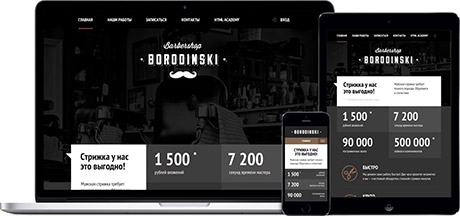
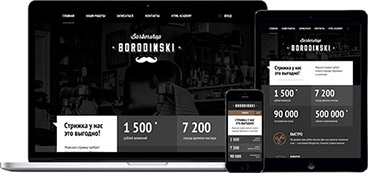
Изменяет размер карточек проектов, резиновое фото шапки

diff --git a/src/index.html b/src/index.html
@@ -30,7 +30,7 @@
           </ul>
         </div>
         <div class="header__photo-container">
-          <img src="./img/kboard_1100.jpg" class="header__photo" width="1100" height="619" alt="Фоновая фотография шапки">
+          <img src="./img/kboard_1100_extended.jpg" class="header__photo" width="1100" height="661" alt="Фоновая фотография шапки">
         </div>
       </header>
 
@@ -152,7 +152,7 @@
               <a href="https://github.com/Ge11ert/262023-mishka" class="project__link project__link--source">Исходник</a>
             </div>
             <div class="project__image-container">
-              <img src="./img/mishka_desktop@1X.jpg" class="project__image" width="460" height="216" alt="Превью проекта Мишка">
+              <img src="./img/mishka_desktop@1X.jpg" class="project__image" width="368" height="173" alt="Превью проекта Мишка">
               <ul class="project__features-list">
                 <li class="project__feature">HTML5/CSS3</li>
                 <li class="project__feature">JavaScript</li>
@@ -170,7 +170,7 @@
               <a href="https://github.com/Ge11ert/262023-barbershop" class="project__link project__link--source">Исходник</a>
             </div>
             <div class="project__image-container">
-              <img src="./img/barbershop_desktop@1X.jpg" class="project__image" width="460" height="216" alt="Превью проекта Мишка">
+              <img src="./img/barbershop_desktop@1X.jpg" class="project__image" width="368" height="173" alt="Превью проекта Мишка">
               <ul class="project__features-list">
                 <li class="project__feature">HTML5/CSS3</li>
                 <li class="project__feature">JavaScript</li>
@@ -187,7 +187,7 @@
               <a href="#" class="project__link project__link--source">Исходник</a>
             </div>
             <div class="project__image-container">
-              <img src="./img/keksobooking_desktop@1x.jpg" class="project__image" width="460" height="295" alt="Превью проекта Мишка">
+              <img src="./img/keksobooking_desktop@1x.jpg" class="project__image" width="368" height="236" alt="Превью проекта Мишка">
               <ul class="project__features-list">
                 <li class="project__feature">ES5</li>
                 <li class="project__feature">Валидация формы</li>
@@ -205,7 +205,7 @@
               <a href="#" class="project__link project__link--source">Исходник</a>
             </div>
             <div class="project__image-container">
-              <img src="./img/sedona_desktop@1X.jpg" class="project__image" width="460" height="295" alt="Превью проекта Мишка">
+              <img src="./img/sedona_desktop@1X.jpg" class="project__image" width="368" height="236" alt="Превью проекта Мишка">
               <ul class="project__features-list project__features-list--reduced">
                 <li class="project__feature">HTML5</li>
                 <li class="project__feature">CSS3</li>

diff --git a/src/sass/blocks/project.scss b/src/sass/blocks/project.scss
@@ -1,8 +1,7 @@
 .project {
   position: relative;
-  width: 500px;
+  width: 400px;
   padding: 22px 18px 12px;
-  box-sizing: border-box;
   border: 2px solid $mid-grey;
 
   .project__info {
@@ -66,15 +65,14 @@
 
   .project__image {
     display: block;
-    margin-bottom: 22px;
+    margin: 0 auto 22px;
   }
 
   .project__features-list {
     @include list-reset;
-    margin: 0 40px;
     display: flex;
     flex-wrap: wrap;
-    justify-content: space-between;
+    padding-left: 10px;
 
     &--reduced {
       justify-content: flex-start;
@@ -87,6 +85,7 @@
 
   .project__feature {
     margin-bottom: 10px;
+    margin-right: 10px;
     padding: 4px 10px;
     font-size: 18px;
     color: $white;

diff --git a/src/sass/blocks/header.scss b/src/sass/blocks/header.scss
@@ -17,6 +17,14 @@
     background-color: rgba($dark-blue, 0.85);
   }
 
+  .header__photo-container {
+    display: flex;
+    align-items: center;
+    width: 100%;
+    max-height: 550px;
+    overflow: hidden;
+  }
+
   .header__logo-link {
     width: 45px;
     height: 41px;
@@ -26,6 +34,7 @@
   }
 
   .header__photo {
-    display: block;
+    width: 100%;
+    height: auto;
   }
 }

diff --git a/src/sass/blocks/works.scss b/src/sass/blocks/works.scss
@@ -2,7 +2,7 @@
   @include desktop-padding;
   display: flex;
   flex-wrap: wrap;
-  justify-content: space-between;
+  justify-content: center;
   padding-top: 40px;
 
   .works__title {
@@ -20,5 +20,9 @@
 
   .works__item {
     margin-bottom: 40px;
+
+    &:nth-child(2n) {
+      margin-right: 4%;
+    }
   }
 }

diff --git a/src/sass/general/variables.scss b/src/sass/general/variables.scss
@@ -10,6 +10,6 @@ $dark-blue: #33394a;
 $bronze: #a8935a;
 $desktop-width: 1100px;
 $tablet-width-breakpoint: 767px;
-$laptop-width-breakpoint: 1023px;
+$laptop-width-breakpoint: 979px;
 $desktop-padding: 30px;
 $mobile-padding: 15px;
